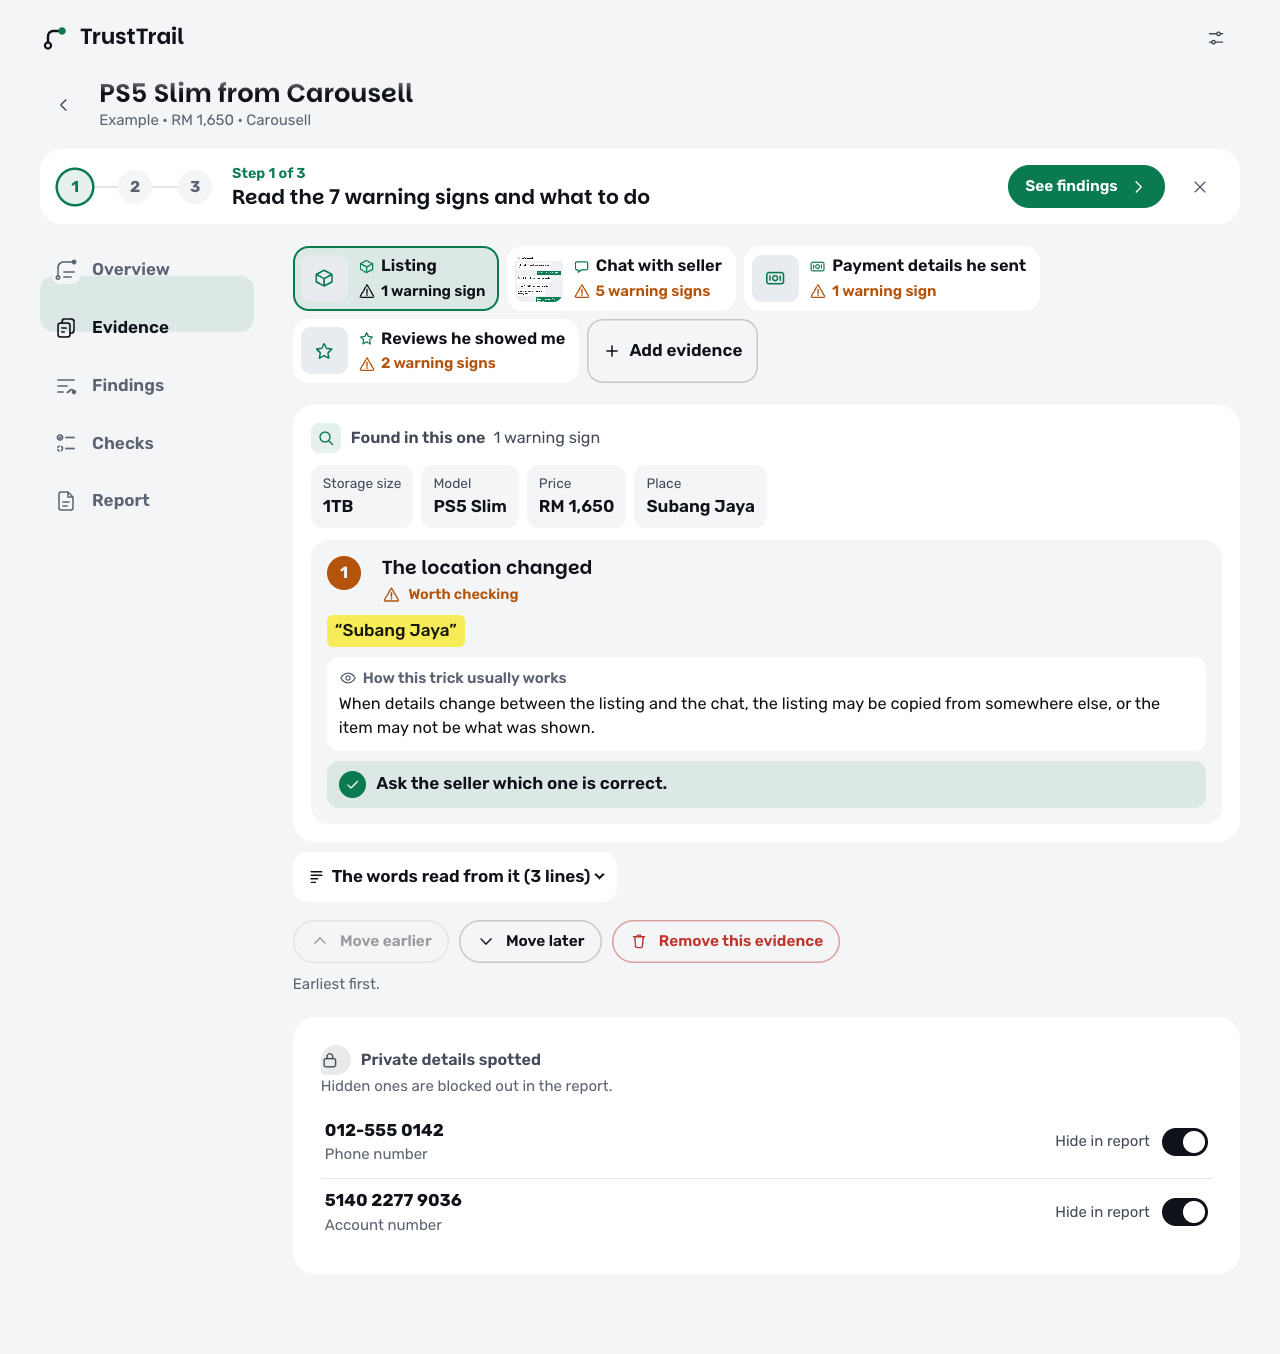
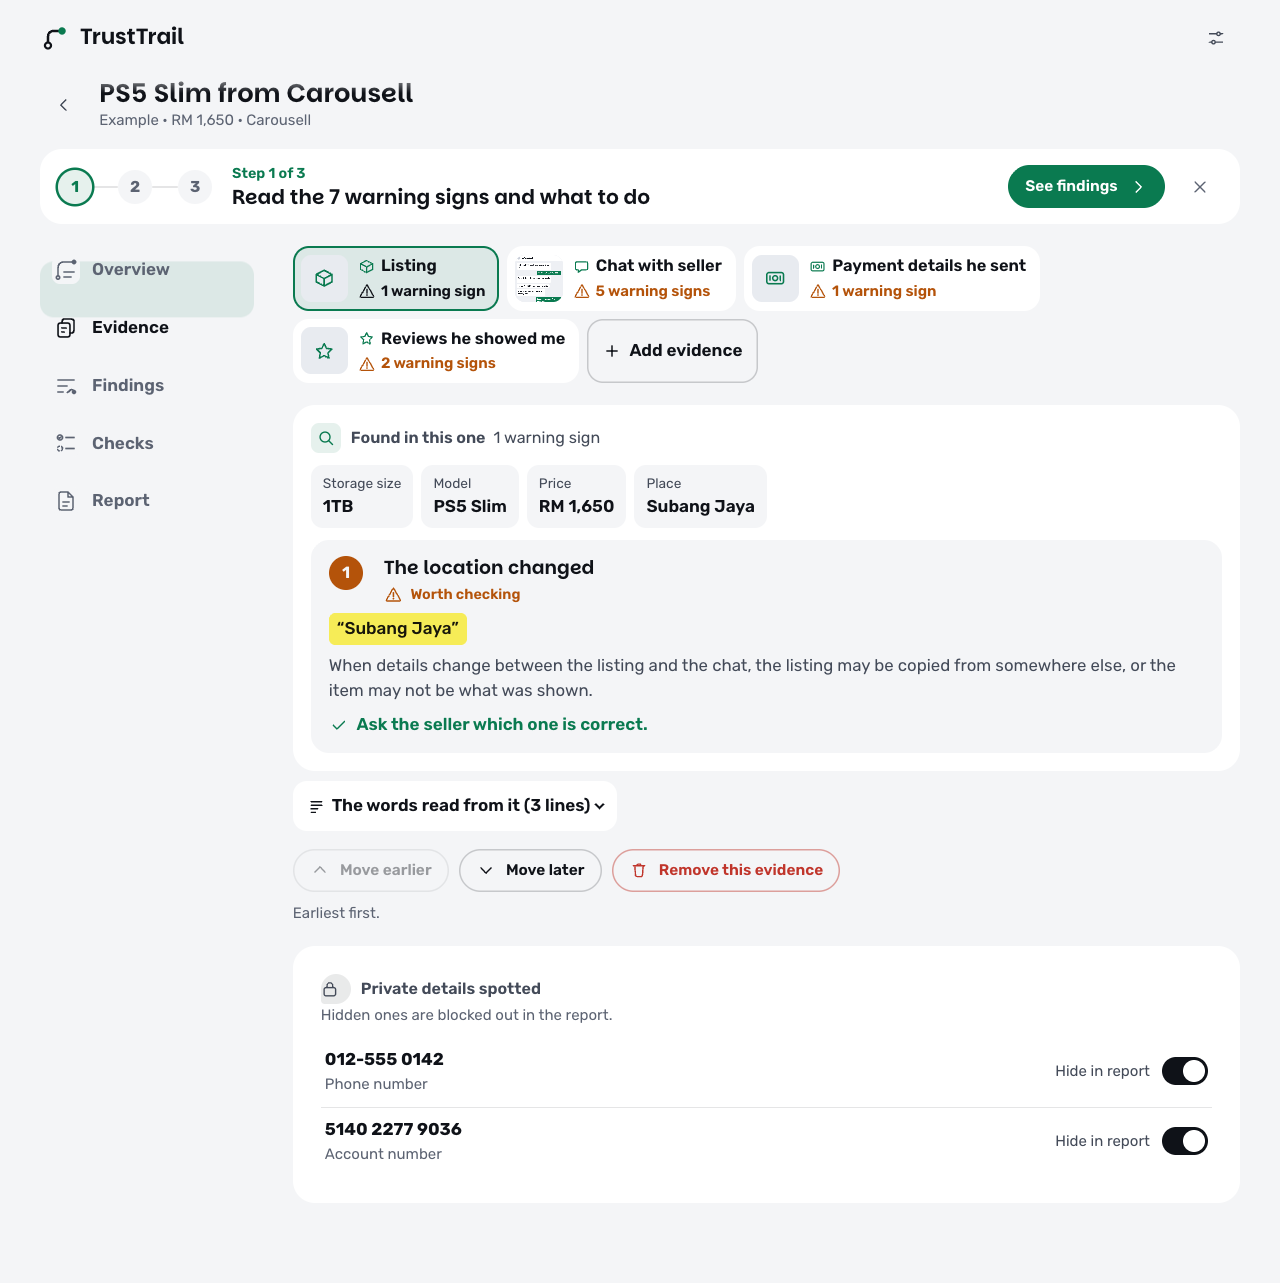
Refresh screens; 25-language warning signs

diff --git a/README.md b/README.md
@@ -82,7 +82,7 @@ Built to be usable by anyone: large touch targets, plain words, numbers first, d
 
 | | |
 |---|---|
-| Automated tests | 1,505 passing |
+| Automated tests | 1,768 passing |
 | Fictional rule fixtures | 840 (English, Malay, mixed Manglish) |
 | Findings quoting their source word for word | 537 of 537 |
 | Injected instructions that changed a result | 0 of 130 |
